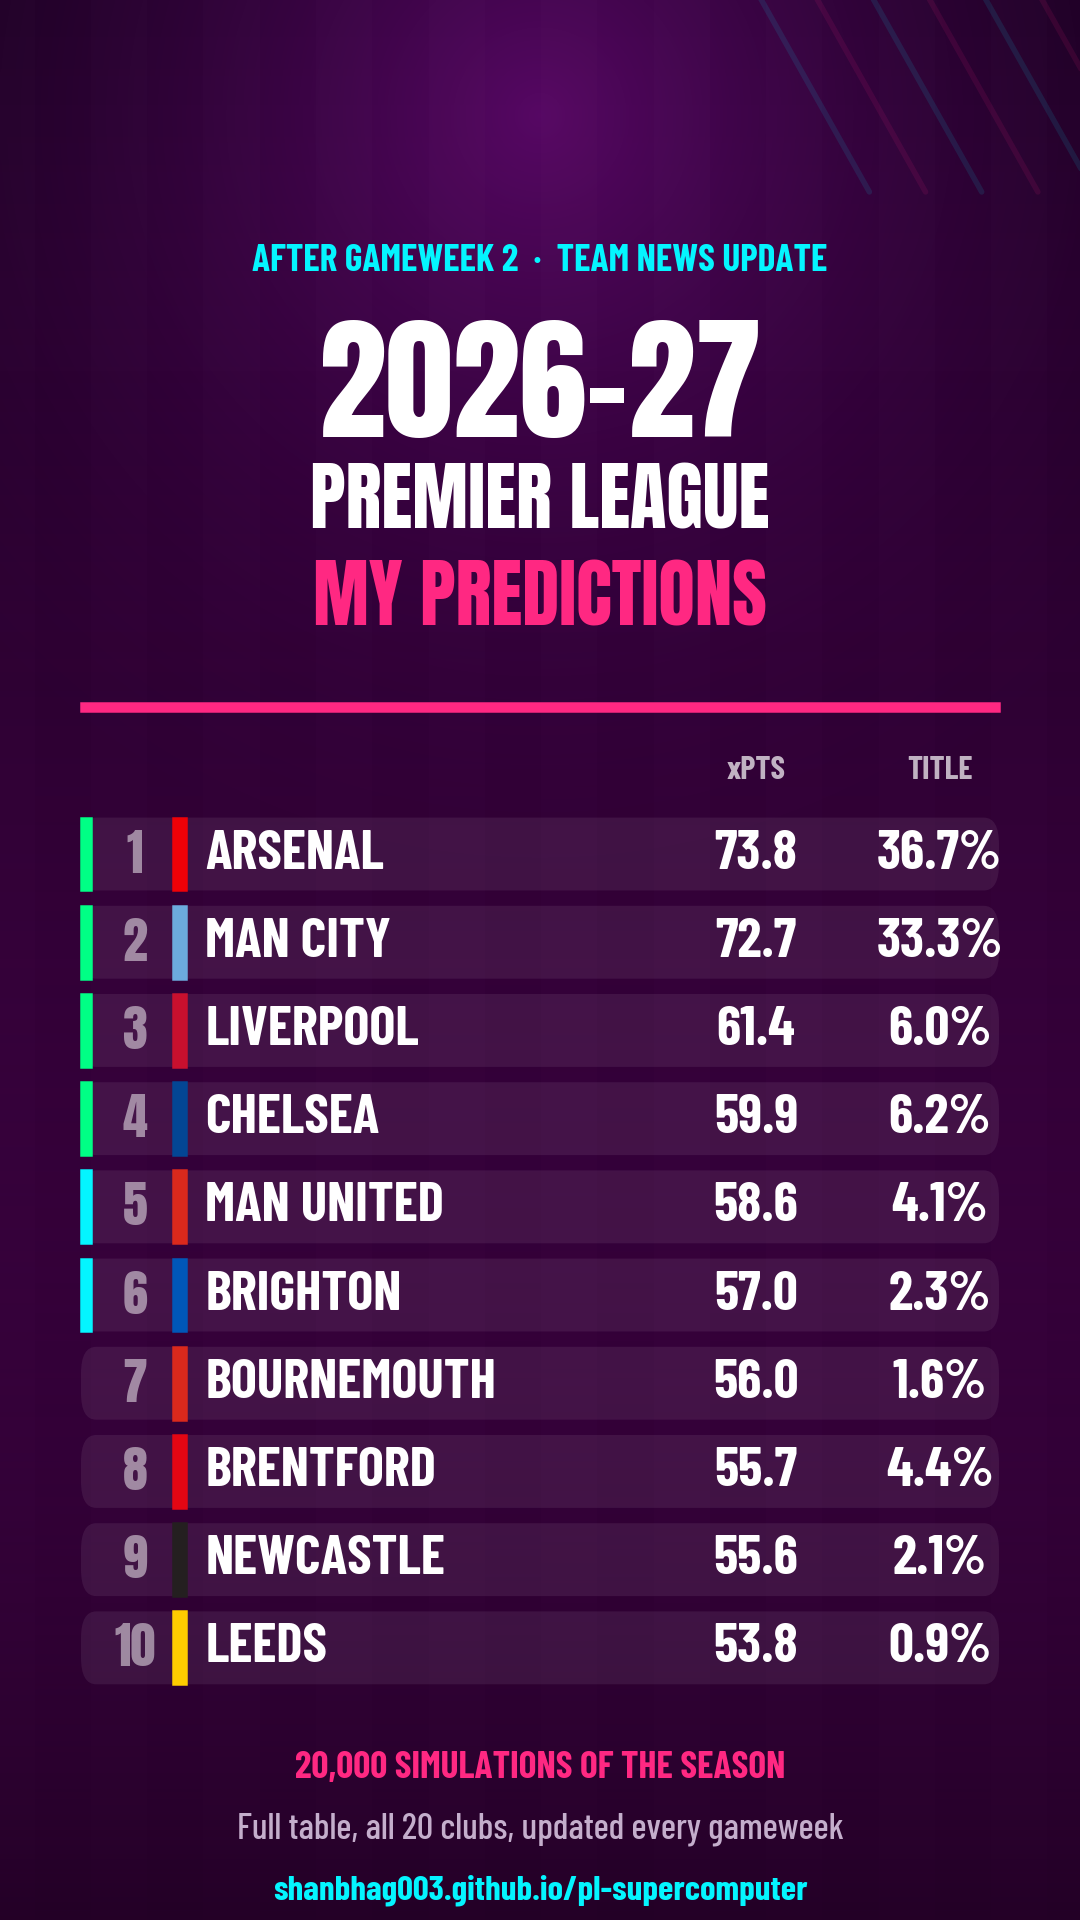
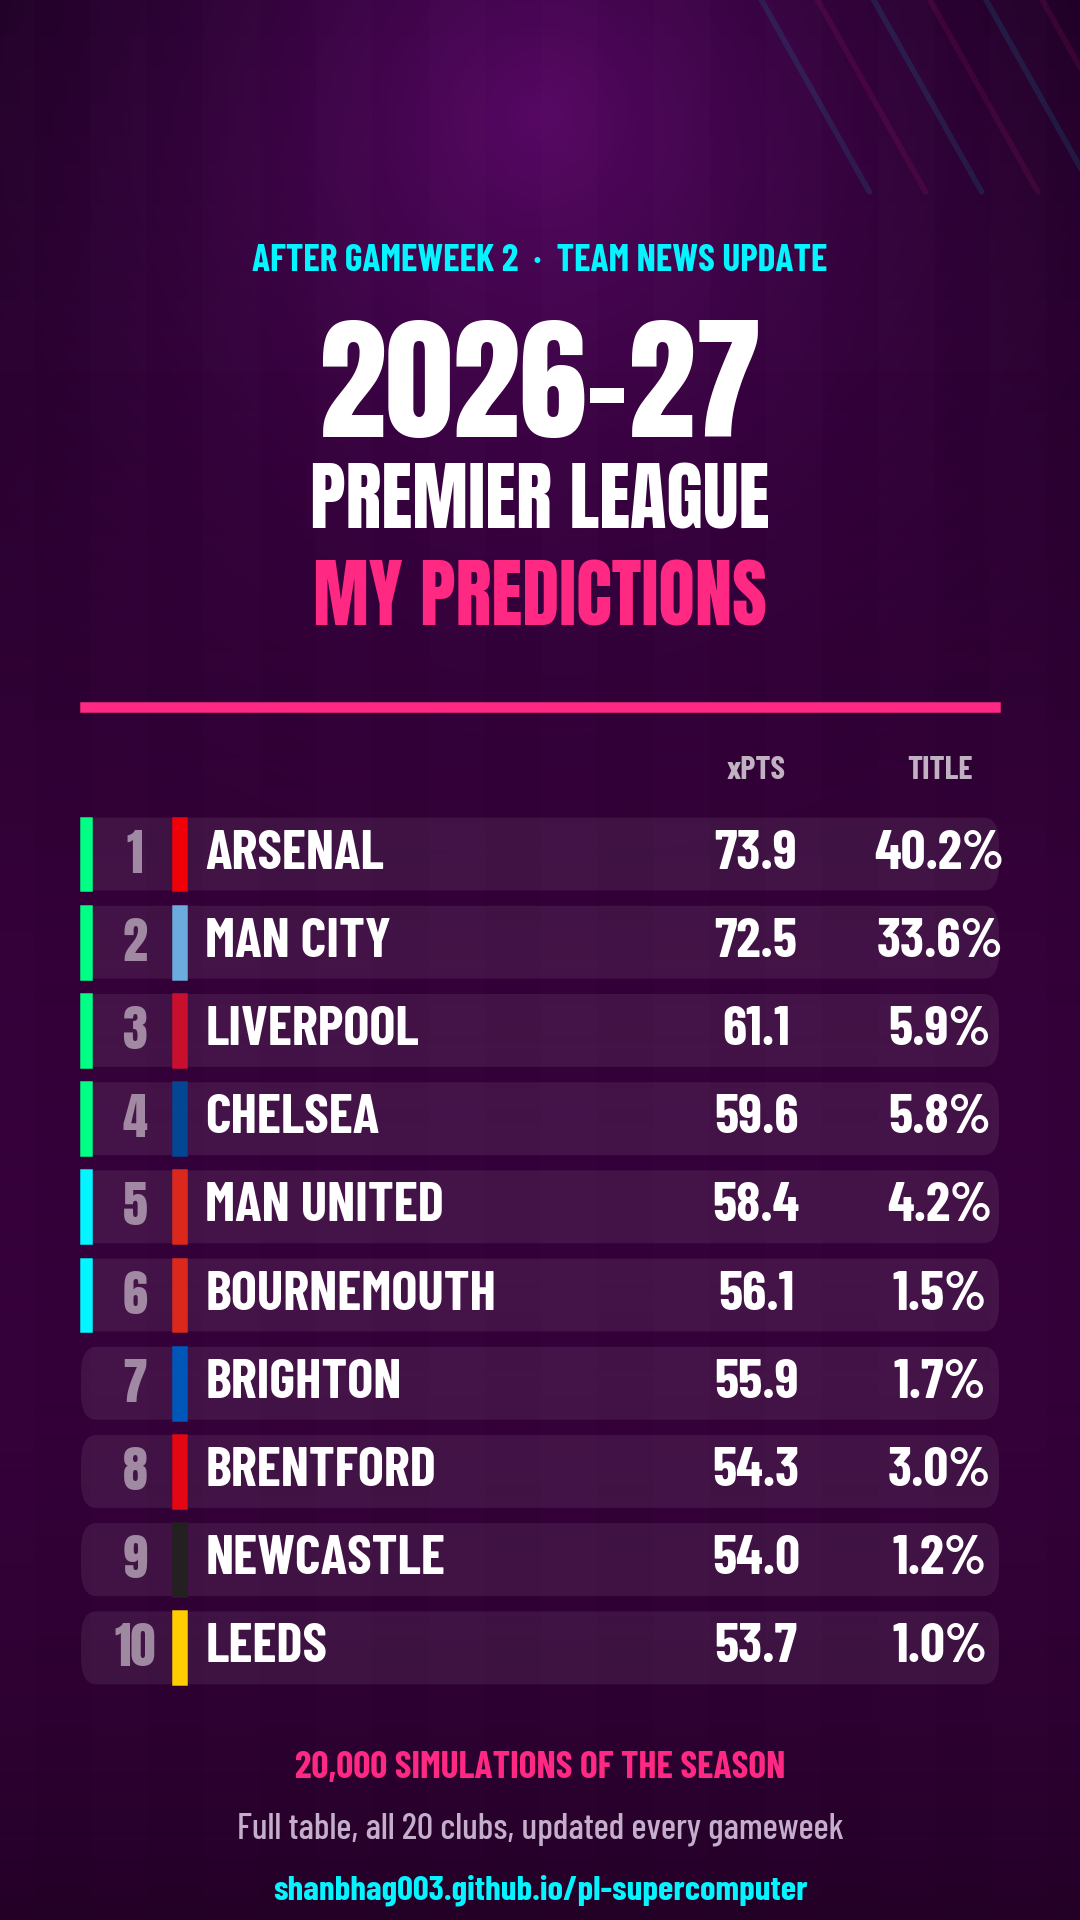
Update 2026-09-06 09:59 UTC

diff --git a/outputs/email_body.html b/outputs/email_body.html
@@ -1,1 +1,1 @@
-<div style="font-family:-apple-system,Segoe UI,Roboto,Helvetica,Arial,sans-serif;max-width:600px;margin:0 auto;color:#1B1020;"><div style="background:#37003C;padding:24px 22px;"><div style="color:#FFF;font-size:24px;font-weight:700;letter-spacing:-.3px;">Premier League Predictions</div><div style="color:#FF2882;font-size:15px;font-weight:600;margin-top:4px;">AFTER GAMEWEEK 2  ·  TEAM NEWS UPDATE</div></div><div style="padding:20px 22px;font-size:15px;line-height:1.55;"><b>Arsenal</b> are favourites for the title, with a <b>36.7%</b> chance.<br><br><span style="color:#6B5A72;">We played out the rest of the season 20,000 times. The percentages below are how often each thing happened.</span></div><div style="padding:0 22px;"><table style="width:100%;border-collapse:collapse;"><tr style="border-bottom:2px solid #FF2882;"><th></th><th style="text-align:left;padding:6px;font-size:11px;color:#6B5A72;letter-spacing:.5px;">TEAM</th><th style="text-align:right;padding:6px;font-size:11px;color:#6B5A72;">POINTS</th><th style="text-align:right;padding:6px;font-size:11px;color:#6B5A72;">TITLE</th><th style="text-align:right;padding:6px;font-size:11px;color:#6B5A72;">TOP 4</th></tr><tr style="background:#FFFFFF;"><td style="padding:9px 6px;color:#6B5A72;font-size:13px;width:28px;">1</td><td style="padding:9px 6px;font-weight:600;font-size:14px;">Arsenal</td><td style="padding:9px 6px;text-align:right;font-size:14px;">74</td><td style="padding:9px 6px;text-align:right;font-size:14px;color:#00B85C;font-weight:600;">36.7%</td><td style="padding:9px 6px;text-align:right;font-size:14px;color:#0090A8;">82.7%</td></tr><tr style="background:#F4F0F6;"><td style="padding:9px 6px;color:#6B5A72;font-size:13px;width:28px;">2</td><td style="padding:9px 6px;font-weight:600;font-size:14px;">Manchester City</td><td style="padding:9px 6px;text-align:right;font-size:14px;">73</td><td style="padding:9px 6px;text-align:right;font-size:14px;color:#00B85C;font-weight:600;">33.3%</td><td style="padding:9px 6px;text-align:right;font-size:14px;color:#0090A8;">79.5%</td></tr><tr style="background:#FFFFFF;"><td style="padding:9px 6px;color:#6B5A72;font-size:13px;width:28px;">3</td><td style="padding:9px 6px;font-weight:600;font-size:14px;">Liverpool</td><td style="padding:9px 6px;text-align:right;font-size:14px;">61</td><td style="padding:9px 6px;text-align:right;font-size:14px;color:#00B85C;font-weight:600;">6.0%</td><td style="padding:9px 6px;text-align:right;font-size:14px;color:#0090A8;">37.9%</td></tr><tr style="background:#F4F0F6;"><td style="padding:9px 6px;color:#6B5A72;font-size:13px;width:28px;">4</td><td style="padding:9px 6px;font-weight:600;font-size:14px;">Chelsea</td><td style="padding:9px 6px;text-align:right;font-size:14px;">60</td><td style="padding:9px 6px;text-align:right;font-size:14px;color:#00B85C;font-weight:600;">6.2%</td><td style="padding:9px 6px;text-align:right;font-size:14px;color:#0090A8;">32.8%</td></tr><tr style="background:#FFFFFF;"><td style="padding:9px 6px;color:#6B5A72;font-size:13px;width:28px;">5</td><td style="padding:9px 6px;font-weight:600;font-size:14px;">Manchester United</td><td style="padding:9px 6px;text-align:right;font-size:14px;">59</td><td style="padding:9px 6px;text-align:right;font-size:14px;color:#00B85C;font-weight:600;">4.1%</td><td style="padding:9px 6px;text-align:right;font-size:14px;color:#0090A8;">30.3%</td></tr><tr style="background:#F4F0F6;"><td style="padding:9px 6px;color:#6B5A72;font-size:13px;width:28px;">6</td><td style="padding:9px 6px;font-weight:600;font-size:14px;">Brighton</td><td style="padding:9px 6px;text-align:right;font-size:14px;">57</td><td style="padding:9px 6px;text-align:right;font-size:14px;color:#00B85C;font-weight:600;">2.3%</td><td style="padding:9px 6px;text-align:right;font-size:14px;color:#0090A8;">22.6%</td></tr></table></div><div style="padding:18px 22px 4px;font-size:11px;color:#6B5A72;letter-spacing:.5px;">MOST LIKELY TO GO DOWN</div><div style="padding:0 22px;"><table style="width:100%;border-collapse:collapse;"><tr style="background:#FFFFFF;"><td style="padding:9px 6px;font-weight:600;font-size:14px;">Ipswich</td><td style="padding:9px 6px;text-align:right;color:#FF2882;font-weight:600;font-size:14px;">67.7%</td></tr><tr style="background:#F4F0F6;"><td style="padding:9px 6px;font-weight:600;font-size:14px;">Coventry</td><td style="padding:9px 6px;text-align:right;color:#FF2882;font-weight:600;font-size:14px;">64.6%</td></tr><tr style="background:#FFFFFF;"><td style="padding:9px 6px;font-weight:600;font-size:14px;">Fulham</td><td style="padding:9px 6px;text-align:right;color:#FF2882;font-weight:600;font-size:14px;">25.0%</td></tr></table></div><div style="padding:22px 22px 6px;font-size:16px;font-weight:700;">What changed since last week</div><div style="padding:0 22px;font-size:14px;line-height:1.6;color:#2C1F33;"><ul style="margin:4px 0;padding-left:20px;"><li><b>Brighton</b> — 2.8 expected points down, title chance -2.5 points, relegation risk +0.7 points</li><li><b>Ipswich</b> — 2.7 expected points down, relegation risk +11.6 points</li><li><b>Chelsea</b> — 2.5 expected points up, title chance +1.1 points, relegation risk -1.8 points</li><li><b>Aston Villa</b> — 2.4 expected points down, title chance -1.0 points, relegation risk +3.4 points</li><li><b>Nottingham Forest</b> — 2.3 expected points up, relegation risk -4.8 points</li></ul><div style="color:#6B5A72;font-size:13px;margin-top:6px;">Numbers move for three reasons: results, how well teams actually played underneath those results, and any change in squad or manager.</div></div><div style="padding:22px 22px 6px;font-size:16px;font-weight:700;">How accurate has this been?</div><div style="padding:0 22px;font-size:14px;line-height:1.6;"><table style="width:100%;border-collapse:collapse;font-size:14px;"><tr><td style="padding:5px 0;color:#6B5A72;">Matches predicted</td><td style="padding:5px 0;text-align:right;font-weight:600;">21</td></tr><tr><td style="padding:5px 0;color:#6B5A72;">Results called correctly</td><td style="padding:5px 0;text-align:right;font-weight:600;">57%</td></tr><tr><td style="padding:5px 0;color:#6B5A72;">Sharpness score (lower is better)</td><td style="padding:5px 0;text-align:right;font-weight:600;">0.200</td></tr></table><div style="color:#6B5A72;font-size:13px;margin-top:8px;">Nothing here is graded with hindsight.</div></div><div style="padding:22px 22px 6px;font-size:16px;font-weight:700;">How it works</div><div style="padding:0 22px;font-size:14px;line-height:1.7;color:#2C1F33;"><ol style="margin:4px 0;padding-left:20px;"><li>Every club gets an attack and a defence score, from twelve seasons of results and the quality of chances created.</li><li>Those scores are adjusted for arrivals, departures, injuries, suspensions and who is now in charge.</li><li>Every remaining match is played out 20,000 times, and we count how often each club finished where.</li></ol></div><div style="padding:18px 22px 26px;font-size:12px;color:#6B5A72;line-height:1.6;border-top:1px solid #E3DAE8;margin-top:18px;">Deliberately left out: fixture congestion (tested across twelve seasons — the effect was not consistent enough to trust), and manager changes where the incoming manager has no Premier League record, since there is nothing to measure them against.<br>Data: Understat, football-data.co.uk and the official Fantasy Premier League API.</div></div>
+<div style="font-family:-apple-system,Segoe UI,Roboto,Helvetica,Arial,sans-serif;max-width:600px;margin:0 auto;color:#1B1020;"><div style="background:#37003C;padding:24px 22px;"><div style="color:#FFF;font-size:24px;font-weight:700;letter-spacing:-.3px;">Premier League Predictions</div><div style="color:#FF2882;font-size:15px;font-weight:600;margin-top:4px;">AFTER GAMEWEEK 2  ·  TEAM NEWS UPDATE</div></div><div style="padding:20px 22px;font-size:15px;line-height:1.55;"><b>Arsenal</b> are favourites for the title, with a <b>40.2%</b> chance.<br><br><span style="color:#6B5A72;">We played out the rest of the season 20,000 times. The percentages below are how often each thing happened.</span></div><div style="padding:0 22px;"><table style="width:100%;border-collapse:collapse;"><tr style="border-bottom:2px solid #FF2882;"><th></th><th style="text-align:left;padding:6px;font-size:11px;color:#6B5A72;letter-spacing:.5px;">TEAM</th><th style="text-align:right;padding:6px;font-size:11px;color:#6B5A72;">POINTS</th><th style="text-align:right;padding:6px;font-size:11px;color:#6B5A72;">TITLE</th><th style="text-align:right;padding:6px;font-size:11px;color:#6B5A72;">TOP 4</th></tr><tr style="background:#FFFFFF;"><td style="padding:9px 6px;color:#6B5A72;font-size:13px;width:28px;">1</td><td style="padding:9px 6px;font-weight:600;font-size:14px;">Arsenal</td><td style="padding:9px 6px;text-align:right;font-size:14px;">74</td><td style="padding:9px 6px;text-align:right;font-size:14px;color:#00B85C;font-weight:600;">40.2%</td><td style="padding:9px 6px;text-align:right;font-size:14px;color:#0090A8;">84.8%</td></tr><tr style="background:#F4F0F6;"><td style="padding:9px 6px;color:#6B5A72;font-size:13px;width:28px;">2</td><td style="padding:9px 6px;font-weight:600;font-size:14px;">Manchester City</td><td style="padding:9px 6px;text-align:right;font-size:14px;">73</td><td style="padding:9px 6px;text-align:right;font-size:14px;color:#00B85C;font-weight:600;">33.6%</td><td style="padding:9px 6px;text-align:right;font-size:14px;color:#0090A8;">81.5%</td></tr><tr style="background:#FFFFFF;"><td style="padding:9px 6px;color:#6B5A72;font-size:13px;width:28px;">3</td><td style="padding:9px 6px;font-weight:600;font-size:14px;">Liverpool</td><td style="padding:9px 6px;text-align:right;font-size:14px;">61</td><td style="padding:9px 6px;text-align:right;font-size:14px;color:#00B85C;font-weight:600;">5.9%</td><td style="padding:9px 6px;text-align:right;font-size:14px;color:#0090A8;">39.4%</td></tr><tr style="background:#F4F0F6;"><td style="padding:9px 6px;color:#6B5A72;font-size:13px;width:28px;">4</td><td style="padding:9px 6px;font-weight:600;font-size:14px;">Chelsea</td><td style="padding:9px 6px;text-align:right;font-size:14px;">60</td><td style="padding:9px 6px;text-align:right;font-size:14px;color:#00B85C;font-weight:600;">5.8%</td><td style="padding:9px 6px;text-align:right;font-size:14px;color:#0090A8;">34.3%</td></tr><tr style="background:#FFFFFF;"><td style="padding:9px 6px;color:#6B5A72;font-size:13px;width:28px;">5</td><td style="padding:9px 6px;font-weight:600;font-size:14px;">Manchester United</td><td style="padding:9px 6px;text-align:right;font-size:14px;">58</td><td style="padding:9px 6px;text-align:right;font-size:14px;color:#00B85C;font-weight:600;">4.2%</td><td style="padding:9px 6px;text-align:right;font-size:14px;color:#0090A8;">31.4%</td></tr><tr style="background:#F4F0F6;"><td style="padding:9px 6px;color:#6B5A72;font-size:13px;width:28px;">6</td><td style="padding:9px 6px;font-weight:600;font-size:14px;">Bournemouth</td><td style="padding:9px 6px;text-align:right;font-size:14px;">56</td><td style="padding:9px 6px;text-align:right;font-size:14px;color:#00B85C;font-weight:600;">1.5%</td><td style="padding:9px 6px;text-align:right;font-size:14px;color:#0090A8;">21.2%</td></tr></table></div><div style="padding:18px 22px 4px;font-size:11px;color:#6B5A72;letter-spacing:.5px;">MOST LIKELY TO GO DOWN</div><div style="padding:0 22px;"><table style="width:100%;border-collapse:collapse;"><tr style="background:#FFFFFF;"><td style="padding:9px 6px;font-weight:600;font-size:14px;">Ipswich</td><td style="padding:9px 6px;text-align:right;color:#FF2882;font-weight:600;font-size:14px;">70.3%</td></tr><tr style="background:#F4F0F6;"><td style="padding:9px 6px;font-weight:600;font-size:14px;">Coventry</td><td style="padding:9px 6px;text-align:right;color:#FF2882;font-weight:600;font-size:14px;">54.7%</td></tr><tr style="background:#FFFFFF;"><td style="padding:9px 6px;font-weight:600;font-size:14px;">Fulham</td><td style="padding:9px 6px;text-align:right;color:#FF2882;font-weight:600;font-size:14px;">31.5%</td></tr></table></div><div style="padding:22px 22px 6px;font-size:16px;font-weight:700;">What changed since last week</div><div style="padding:0 22px;font-size:14px;line-height:1.6;color:#2C1F33;"><ul style="margin:4px 0;padding-left:20px;"><li><b>Brighton</b> — 4.0 expected points down, title chance -3.0 points, relegation risk +1.3 points</li><li><b>Ipswich</b> — 3.0 expected points down, relegation risk +14.2 points</li><li><b>Aston Villa</b> — 2.9 expected points down, title chance -1.1 points, relegation risk +3.5 points</li><li><b>Fulham</b> — 2.8 expected points down, relegation risk +9.2 points</li><li><b>Sunderland</b> — 2.6 expected points up, relegation risk -9.7 points</li></ul><div style="color:#6B5A72;font-size:13px;margin-top:6px;">Numbers move for three reasons: results, how well teams actually played underneath those results, and any change in squad or manager.</div></div><div style="padding:22px 22px 6px;font-size:16px;font-weight:700;">How accurate has this been?</div><div style="padding:0 22px;font-size:14px;line-height:1.6;"><table style="width:100%;border-collapse:collapse;font-size:14px;"><tr><td style="padding:5px 0;color:#6B5A72;">Matches predicted</td><td style="padding:5px 0;text-align:right;font-weight:600;">28</td></tr><tr><td style="padding:5px 0;color:#6B5A72;">Results called correctly</td><td style="padding:5px 0;text-align:right;font-weight:600;">46%</td></tr><tr><td style="padding:5px 0;color:#6B5A72;">Sharpness score (lower is better)</td><td style="padding:5px 0;text-align:right;font-weight:600;">0.189</td></tr></table><div style="color:#6B5A72;font-size:13px;margin-top:8px;">Nothing here is graded with hindsight.</div></div><div style="padding:22px 22px 6px;font-size:16px;font-weight:700;">How it works</div><div style="padding:0 22px;font-size:14px;line-height:1.7;color:#2C1F33;"><ol style="margin:4px 0;padding-left:20px;"><li>Every club gets an attack and a defence score, from twelve seasons of results and the quality of chances created.</li><li>Those scores are adjusted for arrivals, departures, injuries, suspensions and who is now in charge.</li><li>Every remaining match is played out 20,000 times, and we count how often each club finished where.</li></ol></div><div style="padding:18px 22px 26px;font-size:12px;color:#6B5A72;line-height:1.6;border-top:1px solid #E3DAE8;margin-top:18px;">Deliberately left out: fixture congestion (tested across twelve seasons — the effect was not consistent enough to trust), and manager changes where the incoming manager has no Premier League record, since there is nothing to measure them against.<br>Data: Understat, football-data.co.uk and the official Fantasy Premier League API.</div></div>
